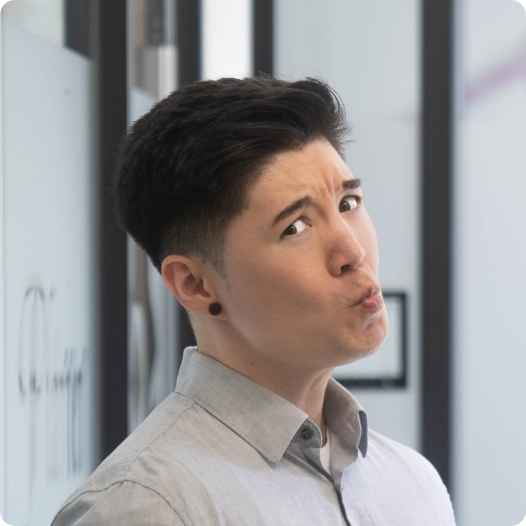
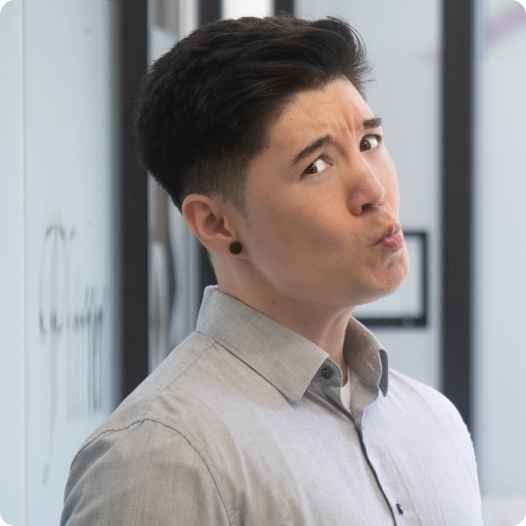
:sparkles: Designed character modal + Added skills and weaknesses descriptions + :lipstick:

diff --git a/apps/portfolio/src/app/pages/home/home.ts b/apps/portfolio/src/app/pages/home/home.ts
@@ -1,6 +1,13 @@
 import {AfterViewInit, Component, ElementRef, ViewChild} from '@angular/core';
 import {CommonModule} from '@angular/common';
-import {About, Character, PieChartComponent, ContactComponent, Heroshot, TestimonialComponent} from "@lib/ui-components";
+import {
+  About,
+  Character,
+  PieChartComponent,
+  ContactComponent,
+  Heroshot,
+  TestimonialComponent
+} from "@lib/ui-components";
 import {HttpClientModule} from "@angular/common/http";
 
 @Component({
@@ -18,11 +25,11 @@ import {HttpClientModule} from "@angular/common/http";
   styleUrl: './home.scss',
 })
 export class Home implements AfterViewInit {
-@ViewChild('heading', { static: true }) heading!: ElementRef;
+  @ViewChild('heading', {static: true}) heading!: ElementRef;
 
   chartData = [55, 30, 10, 5];
   chartLabels = ['UI/UX Designer', 'Frontend Entwickler', 'Berater', 'Bonus'];
-  colors =['#35538E', '#619691', '#BCB2AD', '#837BAC',];
+  colors = ['#35538E', '#619691', '#BCB2AD', '#837BAC',];
 
   ngAfterViewInit() {
     const observer = new IntersectionObserver(
@@ -45,29 +52,37 @@ export class Home implements AfterViewInit {
       id: 'uiux',
       name: 'UI/UX Master',
       imageUrl: 'assets/ui-ux-me.jpg',
-      role: 'UI/UX Designer',
-      description: 'Experte für Nutzerfreundlichkeit und Design.'
+      skills: 'Fähigkeiten:',
+      skillDescription: 'Nutzerprobleme & Bedürfnisse erkennen und ausgeklügelt lösen, mit stetigem Blick auf das große Ganze.',
+      weaknesses: 'Schwächen:',
+      weakenDescription: 'Unscharfe Bildschirme und direktes Sonnenlicht.'
     },
     {
       id: 'frontend',
       name: 'Frontend Hero',
       imageUrl: 'assets/frontend-me.jpg',
-      role: 'Frontend Entwickler',
-      description: 'Leidenschaftlicher Angular- und CSS-Zauberer.'
+      skills: 'Fähigkeiten:',
+      skillDescription: 'Technologie begeistert mit stetigen Updates, um immer auf dem neuesten Stand zu bleiben.',
+      weaknesses: 'Schwächen:',
+      weakenDescription: 'Zu wenig Koffein und Bewegung.'
     },
     {
       id: 'consulting',
       name: 'Consultant Pro',
       imageUrl: 'assets/consultant-me.jpg',
-      role: 'Consultant',
-      description: 'Berät strategisch und lösungsorientiert.'
+      skills: 'Fähigkeiten:',
+      skillDescription: 'Überzeugend, geerdet, professionell, anpassbar.',
+      weaknesses: 'Schwächen:',
+      weakenDescription: 'Essen / rascheln / gähnen im Publikum.'
     },
     {
       id: 'bonus',
       name: 'Bonus Charakter',
       imageUrl: 'assets/bonus-me.jpg',
-      role: 'Special Guest',
-      description: 'Überraschungsgast mit besonderen Skills.'
+      skills: 'Fähigkeiten:',
+      skillDescription: 'Humorvoll mit großer Portion Selbstironie. Fachmännischer Kaninchen Trainer.',
+      weaknesses: 'Schwächen:',
+      weakenDescription: 'Koffeingetränke und Tiere in jeglicher Art und Weise.'
     },
   ];
 }

diff --git a/shared/src/lib/ui-components/about/about.scss b/shared/src/lib/ui-components/about/about.scss
@@ -1,3 +1,15 @@
+.txt-skills{
+  color: #619691;
+}
+
+.txt-weaknesses{
+  color: #bd6666;
+}
+
+.txt-blue{
+  color: #505C74;
+}
+
 .character-grid {
   display: grid;
   grid-template-columns: repeat(auto-fit, minmax(120px, 1fr));
@@ -17,6 +29,12 @@
 .character-image {
   width: 100%;
   border-radius: 8px;
+  filter: grayscale(90%);
+
+  &:hover {
+    filter: none;
+    border: 4px solid #b4eaff;
+  }
 }
 
 .character-name {
@@ -44,21 +62,24 @@
   max-width: 400px;
   width: 90%;
   position: relative;
-  text-align: center;
+  text-align: left;
 }
 
 .close-button {
   position: absolute;
-  top: 8px;
-  right: 12px;
-  background: none;
+  color: #b4eaff;
+  top: -35px;
+  right: -30px;
+  background: #505C74;
+  border-radius: 8px;
+  height: 10%;
+  width: 15%;
   border: none;
-  font-size: 1.5rem;
+  font-size: 2.5rem;
   cursor: pointer;
 }
 
 .modal-image {
-  width: 100px;
-  border-radius: 50%;
+  width: 100%;
   margin-bottom: 1rem;
 }

diff --git a/shared/src/lib/ui-components/about/about.html b/shared/src/lib/ui-components/about/about.html
@@ -34,6 +34,7 @@
       (click)="$event.stopPropagation()"
       (keydown.enter)="$event.stopPropagation()"
     >
+      <h2 class="txt-blue">{{ selectedCharacter.name }}</h2>
       <button
         type="button"
         class="close-button"
@@ -46,9 +47,10 @@
         [alt]="selectedCharacter.name"
         class="modal-image"
       />
-      <h2>{{ selectedCharacter.name }}</h2>
-      <h4>{{ selectedCharacter.role }}</h4>
-      <p>{{ selectedCharacter.description }}</p>
+      <h4 class="txt-skills">{{ selectedCharacter.skills }}</h4>
+      <p>{{ selectedCharacter.skillDescription }}</p>
+      <h4 class="txt-weaknesses">{{ selectedCharacter.weaknesses }}</h4>
+      <p>{{ selectedCharacter.weakenDescription }}</p>
     </div>
   </div>
 </div>

diff --git a/shared/src/lib/ui-components/about/about.ts b/shared/src/lib/ui-components/about/about.ts
@@ -5,8 +5,10 @@ export interface Character {
   id: string;
   name: string;
   imageUrl: string;
-  role: string;
-  description: string;
+  skills: string;
+  skillDescription: string;
+  weaknesses: string;
+  weakenDescription: string;
 }
 
 @Component({
@@ -16,6 +18,7 @@ export interface Character {
   templateUrl: './about.html',
   styleUrls: ['./about.scss'],
 })
+
 export class About {
   @Input() characters: Character[] = [];
   selectedCharacter: Character | null = null;
